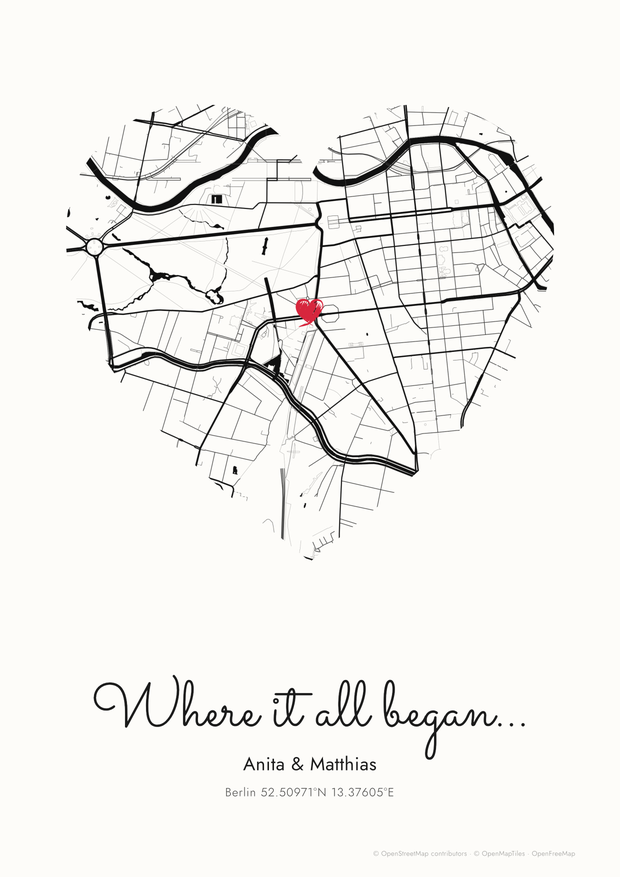
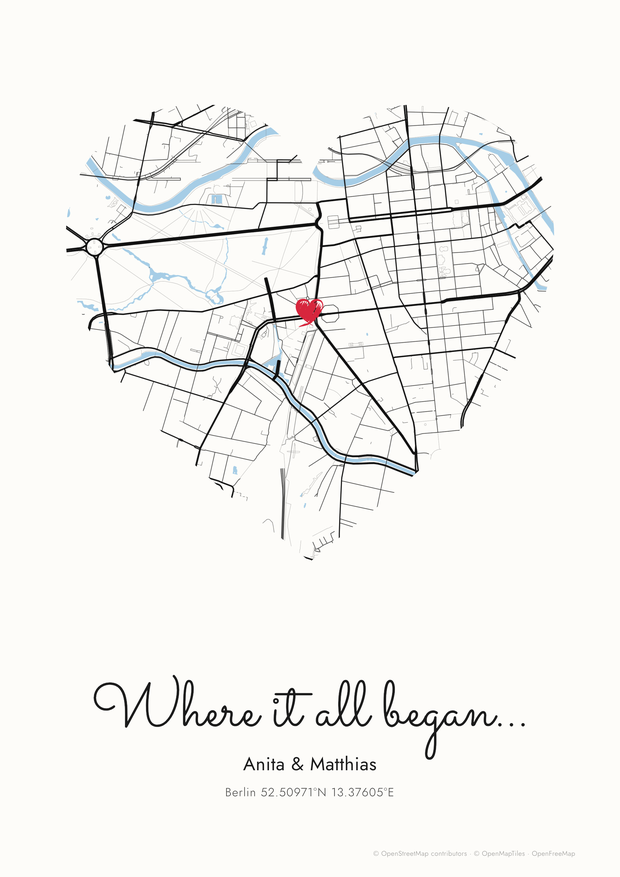
Draw rivers and lakes in light blue
Adds a "Colour" water style with a water colour picker and makes light
blue (#a6cde6) the default. Water areas and narrow rivers/canals use the
same colour; Solid ink, Tinted and Outline remain available. Colour
presets now set a matching water colour. README image refreshed.

Claude-Session: https://claude.ai/code/session_011gyTsra1ZN3XvcPJ3oDNa6

diff --git a/src/domain/mapStyle.ts b/src/domain/mapStyle.ts
@@ -28,6 +28,7 @@ export interface MapStyleOptions {
   paper: string;
   ink: string;
   water: WaterStyle;
+  waterColor: string;
   lineWeight: number;
   contrast: number;
   buildings: boolean;
@@ -40,6 +41,7 @@ export function mapStyleOptions(config: PosterConfig, labels: boolean): MapStyle
     paper: config.posterBackground,
     ink: config.mapInk,
     water: config.waterStyle,
+    waterColor: config.waterColor,
     lineWeight: config.lineWeight,
     contrast: config.mapContrast,
     buildings: config.showBuildings,
@@ -89,7 +91,13 @@ export function buildMapStyle(options: MapStyleOptions): StyleSpecification {
   const minor = mixColors(ink, paper, (1 - contrast) * 0.75);
   const faint = mixColors(ink, paper, 0.35 + (1 - contrast) * 0.45);
   const waterFill =
-    options.water === 'ink' ? ink : options.water === 'tint' ? mixColors(ink, paper, 0.78) : paper;
+    options.water === 'color'
+      ? options.waterColor
+      : options.water === 'ink'
+        ? ink
+        : options.water === 'tint'
+          ? mixColors(ink, paper, 0.78)
+          : paper;
 
   const layers: LayerSpecification[] = [
     { id: 'background', type: 'background', paint: { 'background-color': paper } },
@@ -122,7 +130,8 @@ export function buildMapStyle(options: MapStyleOptions): StyleSpecification {
     filter: ['!=', ['get', 'brunnel'], 'tunnel'],
     layout: { 'line-cap': 'round', 'line-join': 'round' },
     paint: {
-      'line-color': options.water === 'tint' ? waterFill : ink,
+      // Narrow rivers and canals are lines; they match the water areas.
+      'line-color': options.water === 'ink' || options.water === 'outline' ? ink : waterFill,
       // Zoom must be the outermost expression, so the class switch sits inside each stop.
       'line-width': [
         'interpolate',

diff --git a/src/domain/mapStyle.test.ts b/src/domain/mapStyle.test.ts
@@ -6,6 +6,7 @@ import type { WaterStyle } from './types';
 
 describe('buildMapStyle', () => {
   it.each<[WaterStyle, boolean, boolean]>([
+    ['color', false, false],
     ['ink', false, false],
     ['tint', true, true],
     ['outline', true, false],
@@ -27,6 +28,28 @@ describe('buildMapStyle', () => {
     );
     const background = style.layers.find((layer) => layer.id === 'background');
     expect(background?.paint).toEqual({ 'background-color': '#123456' });
+  });
+
+  it('draws rivers and lakes in light blue by default', () => {
+    expect(DEFAULT_CONFIG.waterStyle).toBe('color');
+    const style = buildMapStyle(mapStyleOptions(DEFAULT_CONFIG, false));
+    const water = style.layers.find((layer) => layer.id === 'water');
+    const waterway = style.layers.find((layer) => layer.id === 'waterway');
+    expect(water?.paint).toMatchObject({ 'fill-color': '#a6cde6' });
+    expect(waterway?.paint).toMatchObject({ 'line-color': '#a6cde6' });
+  });
+
+  it('uses the chosen water colour, and ink for the ink style', () => {
+    const custom = buildMapStyle(
+      mapStyleOptions({ ...DEFAULT_CONFIG, waterColor: '#123456' }, false),
+    );
+    expect(custom.layers.find((layer) => layer.id === 'waterway')?.paint).toMatchObject({
+      'line-color': '#123456',
+    });
+    const ink = buildMapStyle(mapStyleOptions({ ...DEFAULT_CONFIG, waterStyle: 'ink' }, false));
+    expect(ink.layers.find((layer) => layer.id === 'water')?.paint).toMatchObject({
+      'fill-color': DEFAULT_CONFIG.mapInk,
+    });
   });
 
   it('only adds label layers when asked to', () => {

diff --git a/src/domain/defaults.ts b/src/domain/defaults.ts
@@ -44,7 +44,8 @@ export const DEFAULT_CONFIG: PosterConfig = {
   posterBackground: '#fdfcf9',
   textColor: '#1b1b1b',
   mapInk: '#111111',
-  waterStyle: 'ink',
+  waterStyle: 'color',
+  waterColor: '#a6cde6',
   showBuildings: false,
   lineWeight: 1,
   mapContrast: 0.8,
@@ -61,6 +62,7 @@ export interface ThemePreset {
   textColor: string;
   mapInk: string;
   waterStyle: WaterStyle;
+  waterColor: string;
   markerColor: string;
 }
 
@@ -72,7 +74,8 @@ export const THEME_PRESETS: ThemePreset[] = [
     posterBackground: '#fdfcf9',
     textColor: '#1b1b1b',
     mapInk: '#111111',
-    waterStyle: 'ink',
+    waterStyle: 'color',
+    waterColor: '#a6cde6',
     markerColor: '#d7263d',
   },
   {
@@ -81,7 +84,8 @@ export const THEME_PRESETS: ThemePreset[] = [
     posterBackground: '#ffffff',
     textColor: '#2a2a2a',
     mapInk: '#3a3a3a',
-    waterStyle: 'tint',
+    waterStyle: 'color',
+    waterColor: '#bcdcee',
     markerColor: '#d7263d',
   },
   {
@@ -90,7 +94,8 @@ export const THEME_PRESETS: ThemePreset[] = [
     posterBackground: '#f5efe4',
     textColor: '#3b2f28',
     mapInk: '#3b2f28',
-    waterStyle: 'tint',
+    waterStyle: 'color',
+    waterColor: '#a9c4cc',
     markerColor: '#b4432f',
   },
   {
@@ -99,7 +104,8 @@ export const THEME_PRESETS: ThemePreset[] = [
     posterBackground: '#151515',
     textColor: '#f3f0ea',
     mapInk: '#f3f0ea',
-    waterStyle: 'tint',
+    waterStyle: 'color',
+    waterColor: '#3d6580',
     markerColor: '#ff4d5e',
   },
 ];

diff --git a/src/components/DesignSections.tsx b/src/components/DesignSections.tsx
@@ -49,6 +49,14 @@ const INK_SWATCHES: Swatch[] = [
   { value: '#f3f0ea', name: 'Off-white' },
 ];
 
+const WATER_SWATCHES: Swatch[] = [
+  { value: '#a6cde6', name: 'Light blue' },
+  { value: '#cfe6f3', name: 'Pale blue' },
+  { value: '#7fb2d4', name: 'River blue' },
+  { value: '#9fd3cf', name: 'Lagoon' },
+  { value: '#3d6580', name: 'Deep blue' },
+];
+
 const pct = (value: number) => `${Math.round(value * 100)}%`;
 
 export function ShapeSection({ config, update, layout }: SectionProps & { layout: PosterLayout }) {
@@ -379,11 +387,20 @@ export function AppearanceSection({
         value={config.waterStyle}
         onChange={(waterStyle) => update({ waterStyle })}
         options={[
-          { value: 'ink', label: 'Solid' },
+          { value: 'color', label: 'Colour' },
+          { value: 'ink', label: 'Solid ink' },
           { value: 'tint', label: 'Tinted' },
           { value: 'outline', label: 'Outline' },
         ]}
       />
+      {config.waterStyle === 'color' ? (
+        <ColorField
+          label="Water colour"
+          value={config.waterColor}
+          onChange={(waterColor) => update({ waterColor })}
+          swatches={WATER_SWATCHES}
+        />
+      ) : null}
       <RangeField
         label="Street contrast"
         min={0}

diff --git a/src/domain/types.ts b/src/domain/types.ts
@@ -18,7 +18,8 @@ export type TextAlignment = 'left' | 'center' | 'right';
 export type TitleFont = 'sacramento' | 'great-vibes' | 'playfair' | 'jost';
 /** Font for the names and the place/coordinates line. */
 export type BodyFont = 'jost' | 'cormorant' | 'josefin' | 'courier';
-export type WaterStyle = 'ink' | 'tint' | 'outline';
+/** Water (rivers, lakes, sea): own colour, solid ink, a light tint of the ink, or outlined. */
+export type WaterStyle = 'color' | 'ink' | 'tint' | 'outline';
 export type PaperSize = 'a4' | 'a3' | '30x40' | '50x70' | 'square';
 export type Orientation = 'portrait' | 'landscape';
 export type PreviewFrame = 'none' | 'black' | 'white' | 'oak';
@@ -75,6 +76,8 @@ export interface PosterConfig {
   textColor: string;
   mapInk: string;
   waterStyle: WaterStyle;
+  /** Used when `waterStyle` is 'color'. */
+  waterColor: string;
   showBuildings: boolean;
   lineWeight: number;
   /** 0 – 1. Strength of minor streets relative to major roads. */

diff --git a/src/domain/config.ts b/src/domain/config.ts
@@ -106,7 +106,8 @@ export function sanitizeConfig(raw: unknown): PosterConfig {
     posterBackground: pickColor(v.posterBackground, d.posterBackground),
     textColor: pickColor(v.textColor, d.textColor),
     mapInk: pickColor(v.mapInk, d.mapInk),
-    waterStyle: pickEnum(v.waterStyle, ['ink', 'tint', 'outline'] as const, d.waterStyle),
+    waterStyle: pickEnum(v.waterStyle, ['color', 'ink', 'tint', 'outline'] as const, d.waterStyle),
+    waterColor: pickColor(v.waterColor, d.waterColor),
     showBuildings: pickBoolean(v.showBuildings, d.showBuildings),
     lineWeight: pickNumber(v.lineWeight, 0.4, 2.5, d.lineWeight),
     mapContrast: pickNumber(v.mapContrast, 0, 1, d.mapContrast),

diff --git a/src/domain/config.test.ts b/src/domain/config.test.ts
@@ -69,6 +69,11 @@ describe('sanitizeConfig', () => {
     expect(sanitizeConfig({ bodyFont: 'comic-sans' }).bodyFont).toBe('jost');
   });
 
+  it('validates the water colour', () => {
+    expect(sanitizeConfig({ waterColor: '#ABCDEF' }).waterColor).toBe('#abcdef');
+    expect(sanitizeConfig({ waterColor: 'blue' }).waterColor).toBe(DEFAULT_CONFIG.waterColor);
+  });
+
   it('rejects invalid locations', () => {
     expect(sanitizeConfig({ location: { latitude: 120, longitude: 0 } }).location).toBeNull();
     expect(sanitizeConfig({ location: { latitude: 'x', longitude: 0 } }).location).toBeNull();

diff --git a/src/state/posterReducer.ts b/src/state/posterReducer.ts
@@ -83,6 +83,7 @@ export function posterReducer(state: PosterConfig, action: PosterAction): Poster
         textColor: action.preset.textColor,
         mapInk: action.preset.mapInk,
         waterStyle: action.preset.waterStyle,
+        waterColor: action.preset.waterColor,
         markerColor: action.preset.markerColor,
       };
 

diff --git a/README.md b/README.md
@@ -4,7 +4,7 @@ A single-page app for creating a personalised **“where it all began…”** ma
 the place your story started, frame it in a heart (or another shape), add your names and
 download a print-ready PNG, PDF or SVG.
 
-![Example poster: black-and-white map of Berlin around Potsdamer Platz in a heart, a red brush-painted heart marker, “Where it all began…”, “Anita & Matthias” and “Berlin 52.50971°N 13.37605°E”](docs/example-poster.png)
+![Example poster: black-and-white map of Berlin around Potsdamer Platz in a heart with light-blue rivers, a red brush-painted heart marker, “Where it all began…”, “Anita & Matthias” and “Berlin 52.50971°N 13.37605°E”](docs/example-poster.png)
 
 ## Features
 
@@ -29,7 +29,7 @@ download a print-ready PNG, PDF or SVG.
   coordinates in decimal (`48.15838°N 11.50194°E`) or degrees/minutes/seconds, four title
   fonts, four fonts for the names and place line (modern sans, elegant serif, vintage sans,
   typewriter), title size and alignment.
-- **Appearance**: colour presets, poster/map/text colours, water style, street contrast, line
+- **Appearance**: colour presets, poster/map/text colours, water (light blue by default, any colour, solid ink, tinted or outlined), street contrast, line
   weight, buildings, paper size (A4, A3, 30×40, 50×70, square) and orientation.
 - **Live preview** in an optional frame, **export** to PNG, PDF and SVG at 150 or 300 dpi.
 - The design is **saved in the browser** automatically; **share links** encode the design in the
